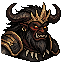
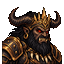
Shahnameh: consistent character portraits, Simurgh and the guiding ram

diff --git a/fun/shahnameh/game.js b/fun/shahnameh/game.js
@@ -66,7 +66,7 @@ const FPS = { 'rostam-tanbur': 5, 'rostam-roar': 8, 'olad-bound': 9, 'rostam-pra
 const SIZE = { queen: 150, rider: 124, rostam: 112, lion: 148, jackal: 108, div: 108, scorpion: 86, vulture: 92, ram: 86, dragon: 136, rakhsh: 128, bat: 108, serpent: 92, hag: 108, beauty: 108, spearman: 140, olad: 112, divwarrior: 100, arzhang: 136, whitediv: 204, firediv: 104, ghul: 100 };
 const BODY = { queen: [0.62, 0.42], rider: [0.3, 0.5], rostam: [0.143, 0.393], lion: [0.5, 0.36], jackal: [0.3, 0.22], div: [0.22, 0.34], scorpion: [0.4, 0.22], vulture: [0.33, 0.2], ram: [0.4, 0.4],
   dragon: [0.46, 0.42], rakhsh: [0.5, 0.5], bat: [0.32, 0.24], serpent: [0.31, 0.31], hag: [0.27, 0.42], beauty: [0.2, 0.47], spearman: [0.115, 0.386], olad: [0.17, 0.49], divwarrior: [0.31, 0.64], arzhang: [0.3, 0.7], whitediv: [0.2667, 0.3867], firediv: [0.2, 0.6], ghul: [0.5, 0.36] };
-const V = 96;
+const V = 97;
 const RAKHSH1 = 128 / 229;                                               // Rakhsh's scale in Khan I: his strip is 229 px, the horse a little larger than the lion
 const REVISED_STORY_ART = new Set(['khan1-intro', 'khan4-intro', 'khan4-outro', 'khan5-intro', 'khan5-outro', 'khan7-intro', 'end2', 'open1', 'open2', 'open3', 'open4', 'open5', 'open6', 'khan1-outro', 'khan2-intro', 'khan2-outro', 'khan3-intro', 'khan3-outro', 'khan6-intro', 'khan6-outro', 'end1', 'end3']);
 let wakeArt = false, lionPrologueSeen = false;
@@ -4566,11 +4566,11 @@ const CODEX = [
     lore: 'Young Rostam tested every horse in his father\'s herds by pressing his hand on its back; each one sank under him, until a rose-red colt with saffron flecks stood firm. That was Rakhsh, whose name means lightning. On the first night of the labours, while his master slept, Rakhsh fought the lion of the reeds alone and trampled it. In the dragon\'s darkness he woke Rostam three times, and was scolded for it twice, before the hero finally saw the beast.',
     road: ['In the first labour he guards the sleeping Rostam, and gallops in at the lion\'s <b>half strength</b> to fight at his side: lure the lion into his charge.', 'Through the dragon\'s night you <b>ride him</b>: faster, with a longer reach from the saddle.', 'Gather <b>eight provisions</b> in a labour and he is well fed: he gallops in to kick the boss once.'],
     facts: [['Coat', 'Rose-red, flecked with saffron'], ['Name', 'Lightning'], ['Fought', 'The lion and the dragon'], ['First seen', 'Khan I']] },
-  { id: 'simurgh', group: 'hero', fa: 'سیمرغ', name: 'The Simurgh', title: 'The great bird of Mount Alborz, guardian of Zal\'s house', art: ['simurgh-fly', 9], bg: 'open6',
+  { id: 'simurgh', port: 'simurgh', group: 'hero', fa: 'سیمرغ', name: 'The Simurgh', title: 'The great bird of Mount Alborz, guardian of Zal\'s house', art: ['simurgh-fly', 9], bg: 'open6',
     lore: 'When Zal was born with hair as white as an old man\'s, his father left him on the slopes of Mount Alborz. The Simurgh carried the child to her nest and raised him among her young. When he returned to the world of men she gave him three of her feathers: burn one, she said, and I will come. A feather burned at Rostam\'s birth brought her wisdom; generations later her counsel would save Rostam himself.',
     road: ['Every provision fills your golden <b>Farr</b>. When it is full, press Farr and her light strikes every foe on screen.', 'Three <b>Simurgh feathers</b> hide in every labour, often on high ledges. Find all three for a perfect labour.', 'Golden feathers marked <b>Simurgh trial</b> open optional routes: three sparks against the clock.'],
     facts: [['Nest', 'Mount Alborz'], ['Raised', 'Zal, Rostam\'s father'], ['Gift', 'Feathers to burn in need'], ['First seen', 'Every labour']] },
-  { id: 'ram', group: 'hero', fa: 'میش', name: 'The Ram of the Spring', title: 'A guide sent to a dying man in the waste', art: ['k2/ram-walk', 8], bg: 'khan2-intro',
+  { id: 'ram', port: 'ram', group: 'hero', fa: 'میش', name: 'The Ram of the Spring', title: 'A guide sent to a dying man in the waste', art: ['k2/ram-walk', 8], bg: 'khan2-intro',
     lore: 'In the second labour there was no monster, only thirst. Rostam and Rakhsh crossed a waterless desert until the hero fell, his tongue cracked, and he prayed for mercy. A ram passed by him, and Rostam understood that where a beast goes there must be water. He followed it and found a spring. He blessed the ram, drank, and let Rakhsh drink.',
     road: ['When Rostam falls to his knees in the storm and prays, the ram appears and <b>leads him to the hidden water</b>. Keep up: your thirst does not wait.', 'Where it paws the sand, the water\'s guardian rises.'],
     facts: [['Labour', 'Khan II, the burning desert'], ['Gift', 'The hidden spring'], ['First seen', 'Khan II']] },

diff --git a/fun/shahnameh/index.html b/fun/shahnameh/index.html
@@ -1116,6 +1116,6 @@ body.calm #banner.on{animation-name:banCalm}@keyframes banCalm{0%{opacity:0}15%,
 <script src="boot.js?v=92"></script>
 <script src="assets/vendor/phaser-3.80.1.min.js" data-game-script="engine"></script>
 <script src="journey-events.js?v=123" data-game-script="journey"></script>
-<script src="game.js?v=170" data-game-script="game"></script>
+<script src="game.js?v=171" data-game-script="game"></script>
 </body>
 </html>
